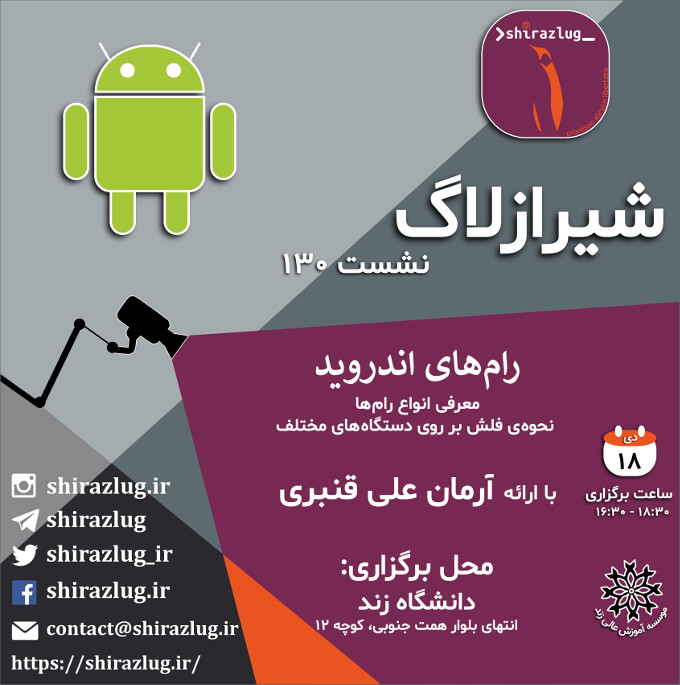
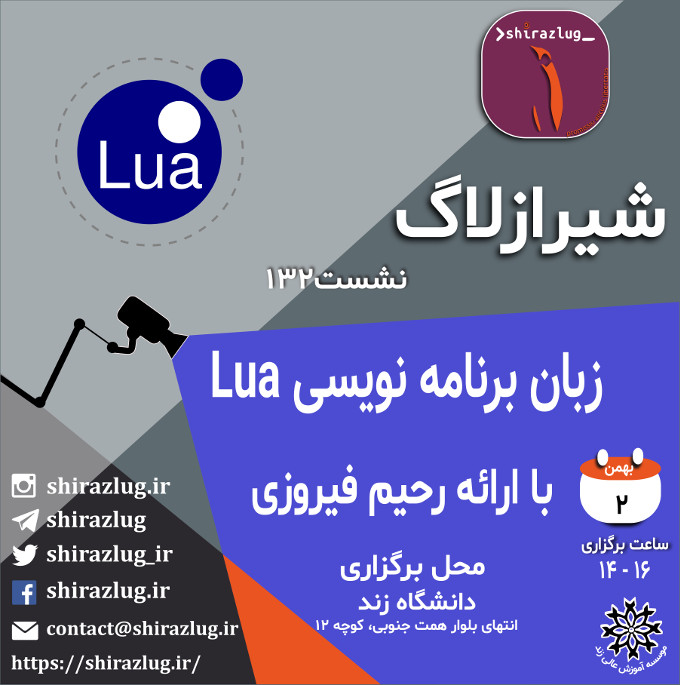
new_session

diff --git a/themes/minimal/layouts/index.html b/themes/minimal/layouts/index.html
@@ -21,7 +21,7 @@
         </div>
         <div class="col-lg-6 col-md-6 col-sm-12 col-xs-12">
             <h5><a href="http://www.openstreetmap.org/?mlat=29.63335;mlon=52.45688#map=17/29.63335/52.45688"> {{ markdownify .Site.Params.Address }}</a></h5>
-            <iframe width="400" height="400" frameborder="0" scrolling="no" marginheight="0" marginwidth="0" src="http://www.openstreetmap.org/export/embed.html?bbox=52.45405%2C29.63653%2C52.46161%2C29.63226&amp;layer=mapnik&amp;marker=29.63333927247996%2C52.45676636695862"></iframe>            
+            <iframe width="400" height="400" frameborder="0" scrolling="no" marginheight="0" marginwidth="0" src="http://www.openstreetmap.org/export/embed.html?bbox=52.45405%2C29.63653%2C52.46161%2C29.63226&amp;layer=mapnik&amp;marker=29.63333927247996%2C52.45676636695862"></iframe>
         </div>
     </div>
 </main>

diff --git a/content/session/next_session.md b/content/session/next_session.md
@@ -1,7 +1,7 @@
 +++
 title = "جلسه آینده"
 draft = false
-description= "نشست ۱۳۰. دوشنبه ۱۶ دی"
+description= "نشست ۱۳۲. دوشنبه ۲ بهمن"
 weight= -1
 +++
 
